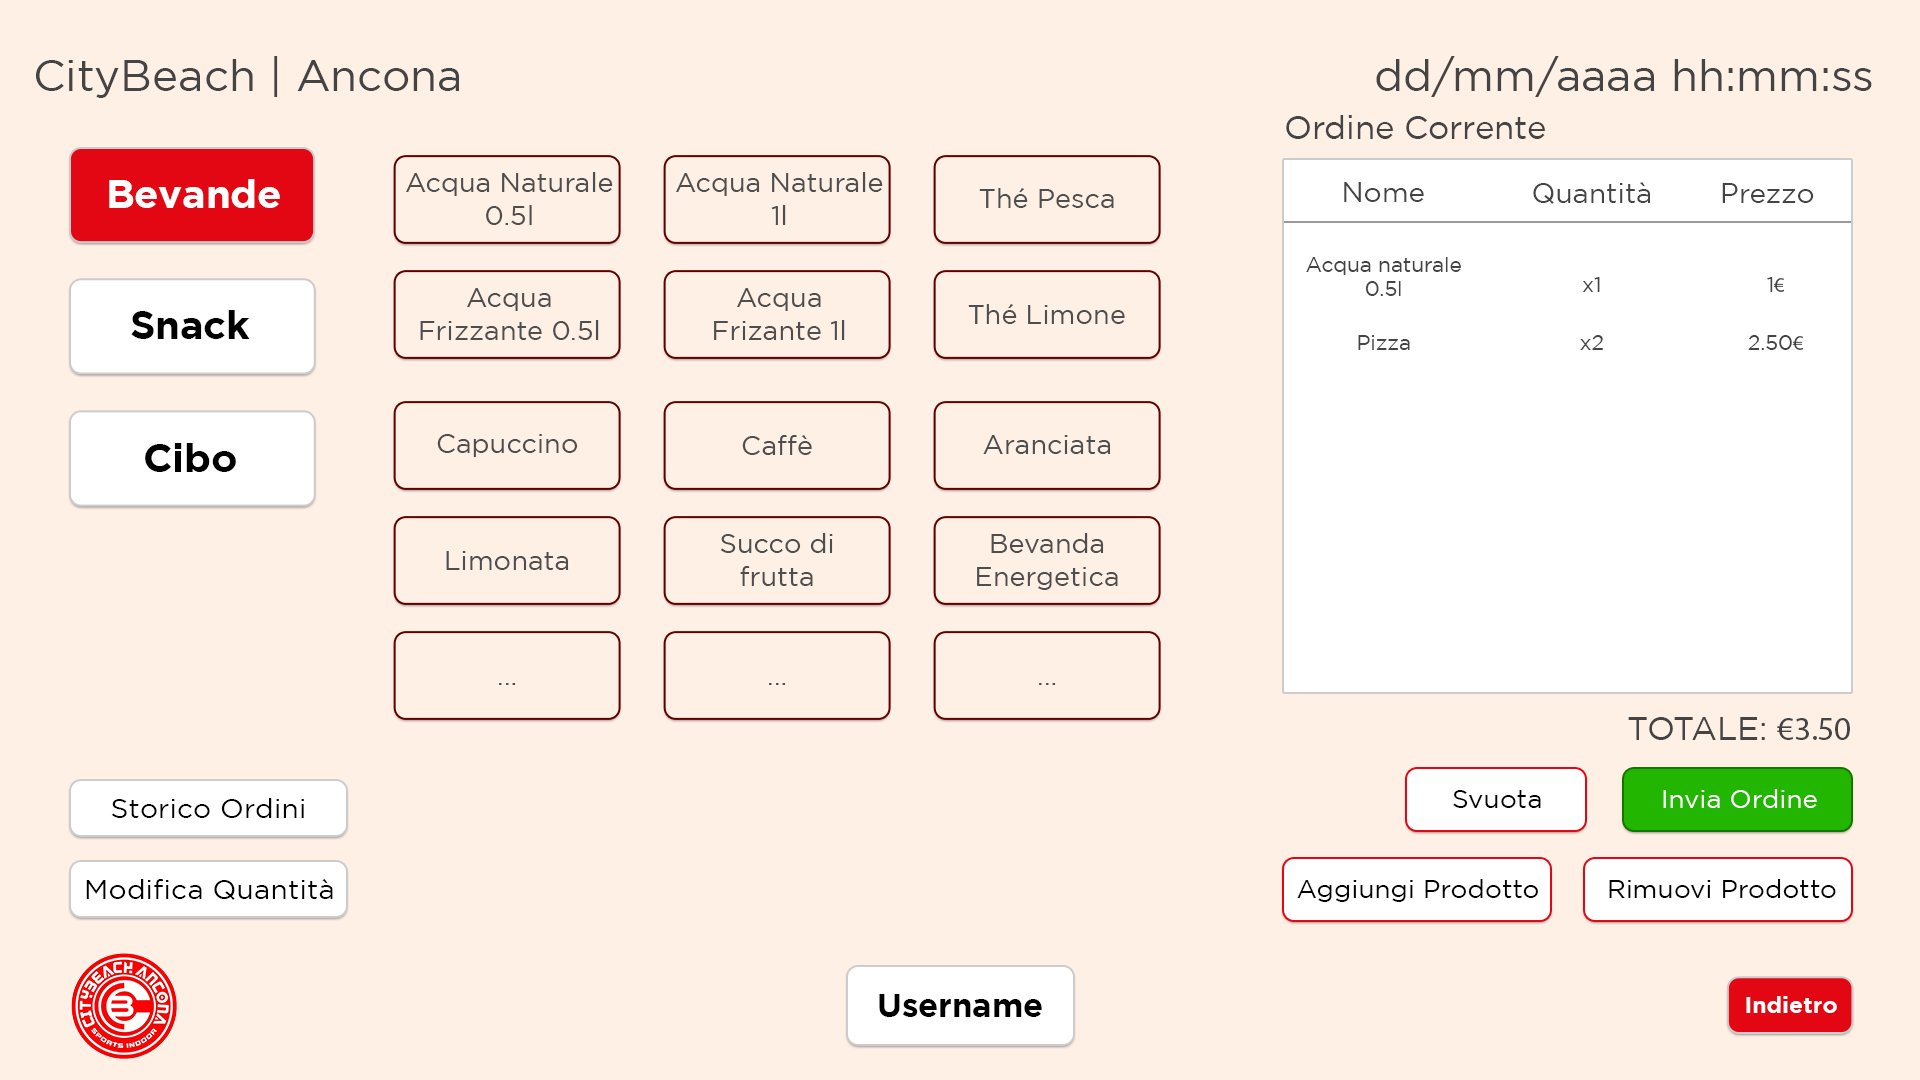
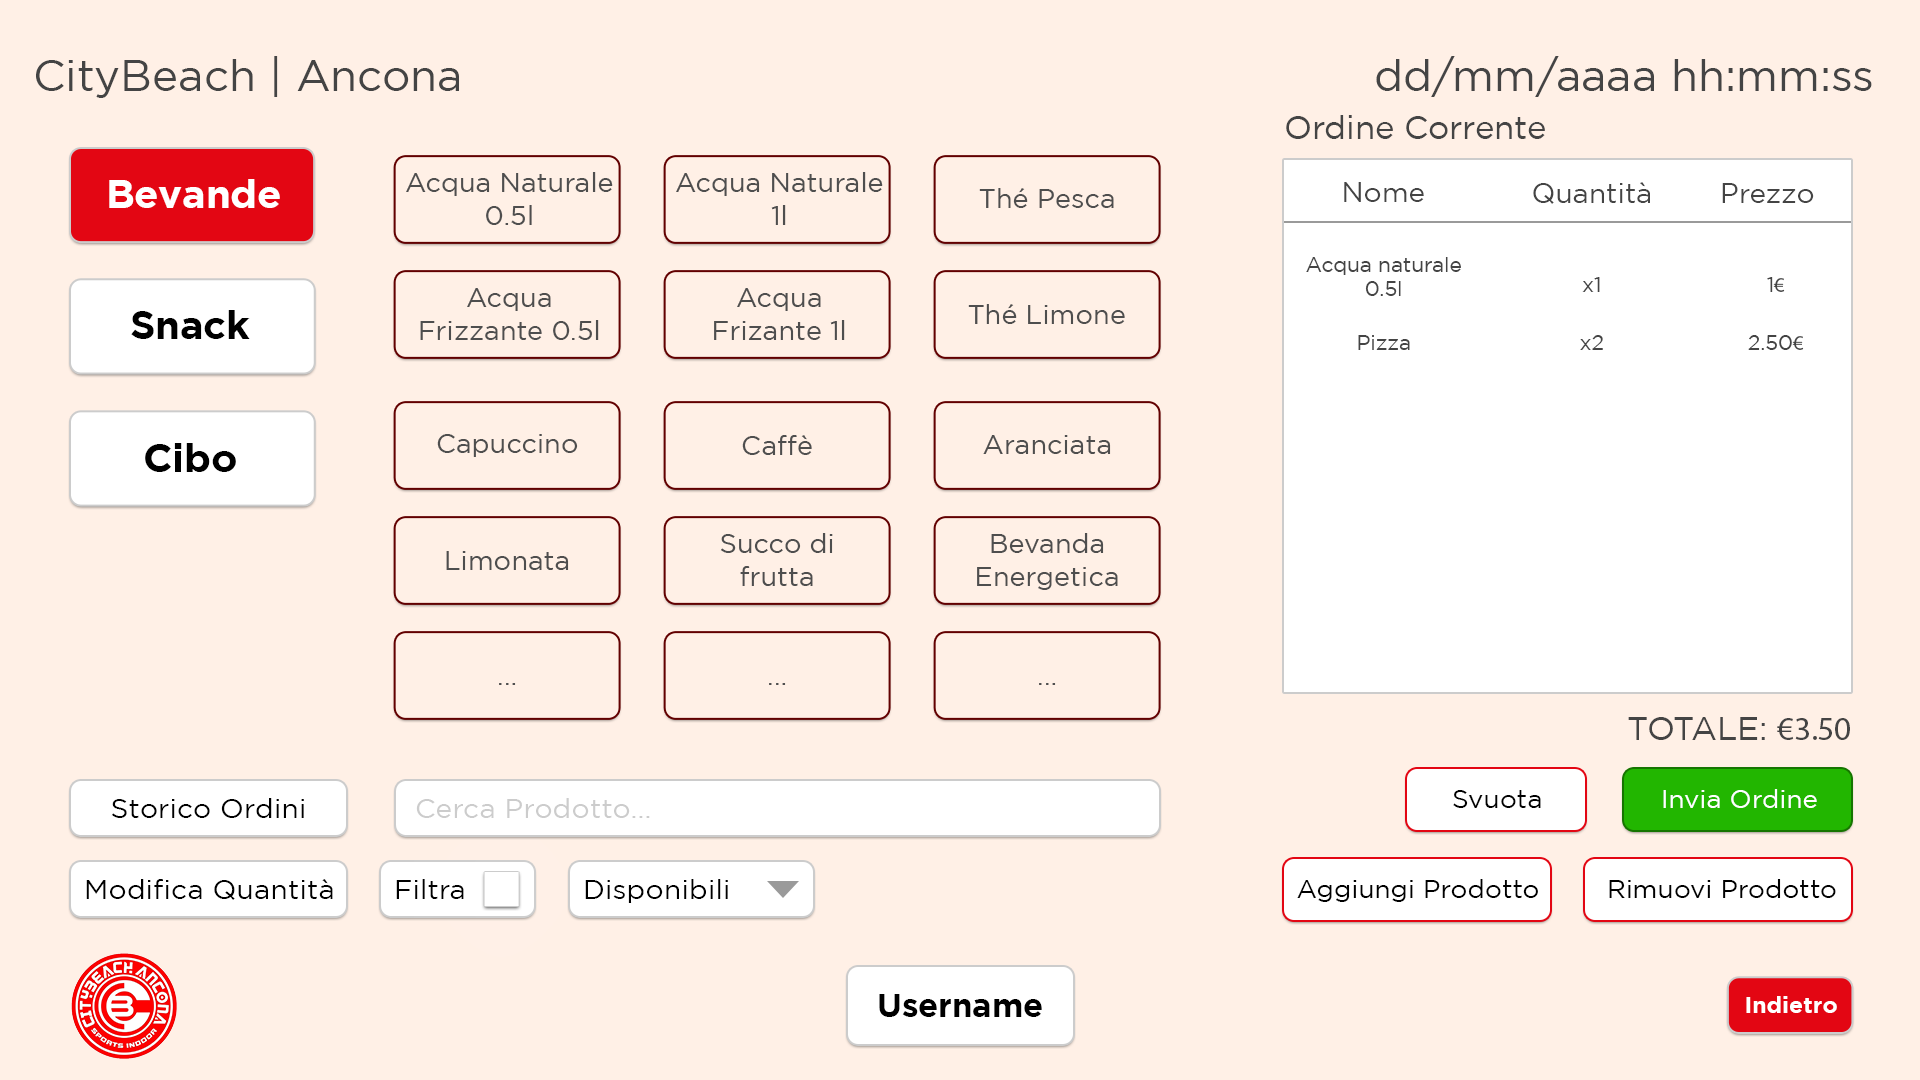
Added the possibility to delete  Orders already created

Changed region(s): [[0.1875, 0.7028, 0.625, 0.8556]]

diff --git a/CityBeach/View/Restaurant_ui.py b/CityBeach/View/Restaurant_ui.py
@@ -73,14 +73,13 @@ def view_restaurant_ui_layout(products_list:List[Product],delete_mode,remove_pro
     def complete_order():
         if not current_order:
             return
-        
         data = {}
-
         for product_name in current_order:
             data[get_prod_by_name(product_name)] = current_order[product_name]["qty"]
 
         if finalize_order(data):
             clear_order()
+            display_products(category_active,last_clicked)
         return
 
     def display_products(category,clicked):
@@ -125,7 +124,7 @@ def view_restaurant_ui_layout(products_list:List[Product],delete_mode,remove_pro
                         continue
             if search_bar.text().strip().lower() not in product.name.lower():
                 continue
-            btn = QPushButton(product.name)
+            btn = QPushButton(f"{product.name}\n{product.quantity}")
             btn.setMinimumSize(120, 80)
             btn.setStyleSheet(style_products_button)
             btn.clicked.connect(lambda ch, p=product: check_if_add_or_delete(p))
@@ -426,24 +425,67 @@ class edit_qty_product_ui(QDialog):
         self.setLayout(main_layout)
 
 class OrdersOverviewDialog(QDialog):
-    def __init__(self, orders):
+    def __init__(self, orders:List[Order],can_delete_orders:bool,delete_order_funct):
         super().__init__()
         self.setWindowTitle("Storico Ordini")
-        #self.setGeometry(200, 200, 700, 500)
         layout = QVBoxLayout(self)
         self.setWindowIcon(QIcon("src/img/logo.png"))
-        self.setFixedSize(700,500)
+        self.setFixedSize(600, 450)
 
         self.tree = QTreeWidget()
         self.tree.setHeaderLabels(["Dettaglio", "Quantità", "Subtotale"])
         self.tree.setColumnWidth(0, 350)
         self.populate_tree(orders)
         layout.addWidget(self.tree)
+
+        button_layout = QHBoxLayout()
+        self.delete_button = QPushButton("Elimina Ordine")
+        self.delete_button.setEnabled(False)
+        self.delete_button.setStyleSheet(style_QButton_disabled_16)
+        button_layout.addWidget(self.delete_button)
+
         close_button = QPushButton("Chiudi")
         close_button.clicked.connect(self.accept)
-        close_button.setStyleSheet(style_QButton_white)
-        layout.addWidget(close_button)
+        close_button.setStyleSheet(style_QButton_white_16Gotham)
+        button_layout.addWidget(close_button)
+
+        layout.addLayout(button_layout)
+
         self.setStyleSheet(style_app_Dialogs)
+        self.can_delete_orders = can_delete_orders
+
+        def update_delete_button_state():
+            selected = self.tree.selectedItems()
+            if selected:
+                self.delete_button.setEnabled(True)
+                self.delete_button.setStyleSheet(style_QButton_red_16Gotham)
+            else:
+                self.delete_button.setEnabled(False)
+                self.delete_button.setStyleSheet(style_QButton_disabled_16)
+            return
+        def delete_order():
+            if not can_delete_orders:
+                QMessageBox.warning(self, "Errore", "Solo un amministratore può eliminare un ordine salvato in memoria.")
+                return False
+            selected = self.tree.selectedItems()
+            if selected:
+                item = selected[0]
+                has_parent = item.parent() is None      #true if the topLevel, else False
+                if not has_parent:
+                    item = item.parent()        #to get TopLevel
+                order_number = int(item.text(0).replace("Ordine #",""))
+                reply = QMessageBox.question(self,"Reinserimento prodotti",
+                    "Vuoi reinserire i prodotti nell'inventario?",
+                    QMessageBox.StandardButton.Yes | QMessageBox.StandardButton.No,
+                    QMessageBox.StandardButton.No)
+                reinsert = (reply == QMessageBox.StandardButton.Yes)
+                delete_order_funct(order_number,reinsert)
+                self.populate_tree(orders)
+
+            return
+
+        self.tree.itemSelectionChanged.connect(update_delete_button_state)
+        self.delete_button.clicked.connect(delete_order)
 
     def populate_tree(self, orders:List[Order]):
         self.tree.clear()
@@ -462,5 +504,4 @@ class OrdersOverviewDialog(QDialog):
                 product_item.setText(0, f"  - {product.name}")
                 product_item.setText(1, str(qty))
                 product_item.setText(2, f"€ {subtotal:.2f}")
-
             order_item.setExpanded(True)

diff --git a/CityBeach/View/View.py b/CityBeach/View/View.py
@@ -12,7 +12,7 @@ from .Login_ui import *
 from .Main_ui import *
 from .Player_ui import *
 from .styles import *
-from .AttrezzaturaSportiva_ui import *
+from .SportEquipment_ui import *
 from .topBar import *
 import os
 
@@ -628,8 +628,12 @@ class MainWindow(QWidget):
                 return True
             return False
         def show_history_ui():
-            dlg = OrdersOverviewDialog(self.restaurant_controller.orders)
-            dlg.exec()
+            dlg = OrdersOverviewDialog(self.restaurant_controller.orders,self.users_controller.get_current_user().is_admin,self.restaurant_controller.delete_order)
+            if dlg.exec():
+                self.model.save_to_file("data.pkl")
+                self.init_restaurant_ui()
+                return True
+            return False
         main_layout, back_btn, qty_btn, history_btn, add_prod, del_prod, center_text = view_restaurant_ui_layout(self.restaurant_controller.products,lambda :self.delete_mode,self.restaurant_controller.remove_product, self.restaurant_controller.get_product_by_name, self.restaurant_controller.finalize_order)
         back_btn.clicked.connect(self.init_main_ui)
         add_prod.clicked.connect(show_add_product_ui)

diff --git a/CityBeach/Controller/RestaurantController.py b/CityBeach/Controller/RestaurantController.py
@@ -65,3 +65,18 @@ class AppRestaurantController:
         except Exception as e:
             print(f"Errore finalizzazione ordine: {e}")
             return False
+
+    def delete_order(self,order_number:int,reinset:bool):
+        try:
+            if reinset:
+                order = self.orders[order_number-1]
+                for prod in order.items.keys():
+                    try:
+                        prod.quantity+=order.items[prod]
+                    except Exception:
+                        continue
+            del self.orders[order_number - 1]
+            return True
+        except Exception as e:
+            print(e)
+            return False

diff --git a/CityBeach/View/styles.py b/CityBeach/View/styles.py
@@ -107,6 +107,20 @@ style_QButton_red_17Gotham = """
         border: 2px solid #E30613;
     }
 """
+style_QButton_red_16Gotham = """
+    QPushButton {
+        font-family: Gotham; font-size: 16pt;
+        background-color: #E30613;
+        color: #ffffff;
+        border: 1px solid #E30613;
+        border-radius: 14px;
+        padding: 6px 20px;
+    }
+    QPushButton:hover {
+        background-color: #B20510;
+        border: 2px solid #E30613;
+    }
+"""
 style_QButton_enabled = """
     QPushButton {
         font-family: Gotham; font-size: 18pt;

diff --git a/README.it.md b/README.it.md
@@ -89,7 +89,6 @@ CityBeach/
 │   ├── RestaurantTestCase.py
 │   └── UserTestCase.py
 └── View/
-    ├── AttrezzaturaSportiva_ui.py
     ├── Booking_ui.py
     ├── DateTimeLabel.py
     ├── Employee_ui.py
@@ -98,6 +97,7 @@ CityBeach/
     ├── Main_ui.py
     ├── Player_ui.py
     ├── Restaurant_ui.py
+    ├── SportEquipment_ui.py
     ├── styles.py
     ├── topBar.py
     └── View.py
@@ -135,28 +135,28 @@ Al primo avvio utilizzare le credenziali predefinite:
 
 ### 📋 Pannelli Funzionali
 
-- **Employees Panel**  
+- **Area Dipendenti**  
   Gestione di tutti gli utenti del sistema (staff e non staff).  
   - Alla creazione di un nuovo utente, la password è vuota (`""`).  
   - L’amministratore può modificare un utente e reimpostarne la password, ma non recuperarla.
 
-- **Players Panel**  
+- **Area Giocatori**  
   Gestione dei profili giocatori.  
   Per effettuare una prenotazione è necessario selezionare un giocatore registrato.
 
-- **Fields & Lockers Panel**  
+- **Area Campi da Gioco e Spogliatoi**  
   Gestione dei campi e degli spogliatoi disponibili.  
   - **Vista statica:** panoramica completa con caratteristiche principali e grafici statistici.  
   - **Vista dinamica:** selezione data → visualizzazione stato campi/spogliatoi per ogni fascia oraria.  
 
   > Sport supportati: Beach Volley, Padel, Beach Tennis
 
-- **Bookings Panel**  
+- **Area Prenotazioni**  
   Creazione nuove prenotazioni (**solo da oggi in poi**).  
   Stato aggiornato automaticamente:  
   📅 **REGISTERED → IN PROGRESS → COMPLETED**  
 
-- **Restaurant Panel (Area Ristoro)**  
+- **Area Ristorante**  
   Gestione dei prodotti divisi per categoria:  
   - 🥤 Bevande  
   - 🍷 Alcol  
@@ -167,7 +167,7 @@ Al primo avvio utilizzare le credenziali predefinite:
 
 ---
 
-## 💻 Some Mockup
+## 💻 Mockup di Esempio
 <p align="center">
   <table>
     <tr>

diff --git a/README.md b/README.md
@@ -89,7 +89,6 @@ CityBeach/
 │   ├── RestaurantTestCase.py
 │   └── UserTestCase.py
 └── View/
-    ├── AttrezzaturaSportiva_ui.py
     ├── Booking_ui.py
     ├── DateTimeLabel.py
     ├── Employee_ui.py
@@ -98,6 +97,7 @@ CityBeach/
     ├── Main_ui.py
     ├── Player_ui.py
     ├── Restaurant_ui.py
+    ├── SportEquipment_ui.py
     ├── styles.py
     ├── topBar.py
     └── View.py
